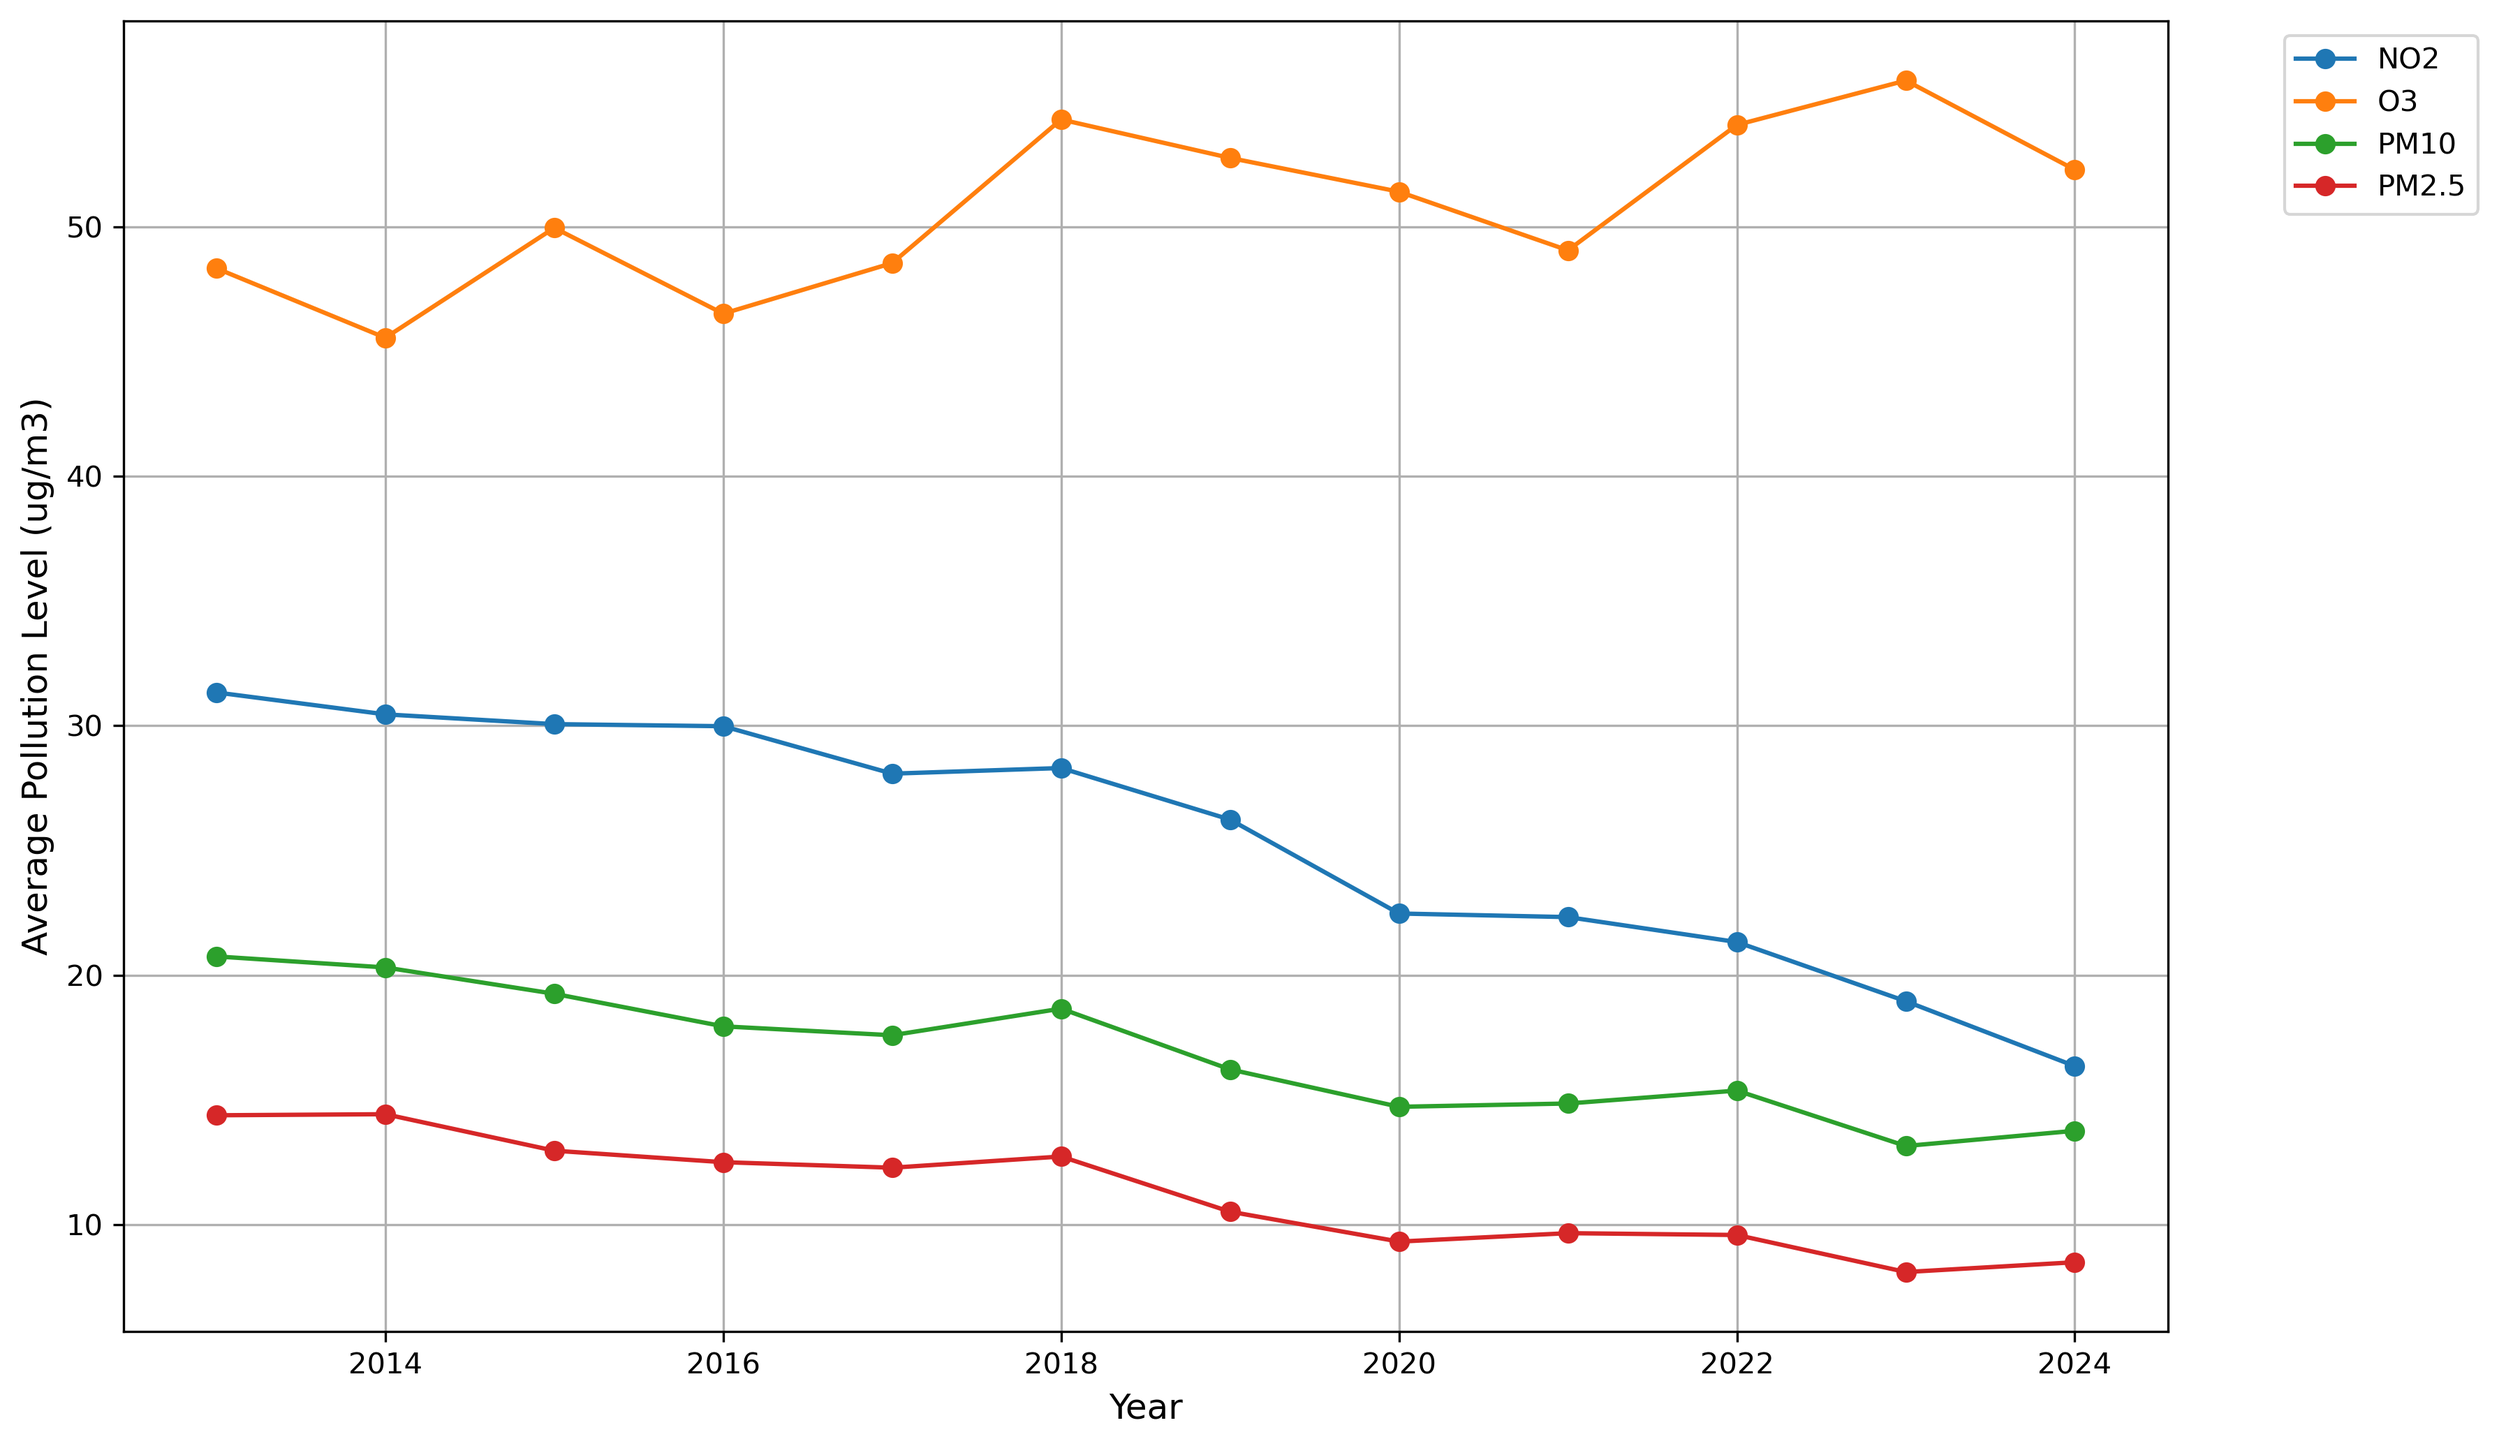
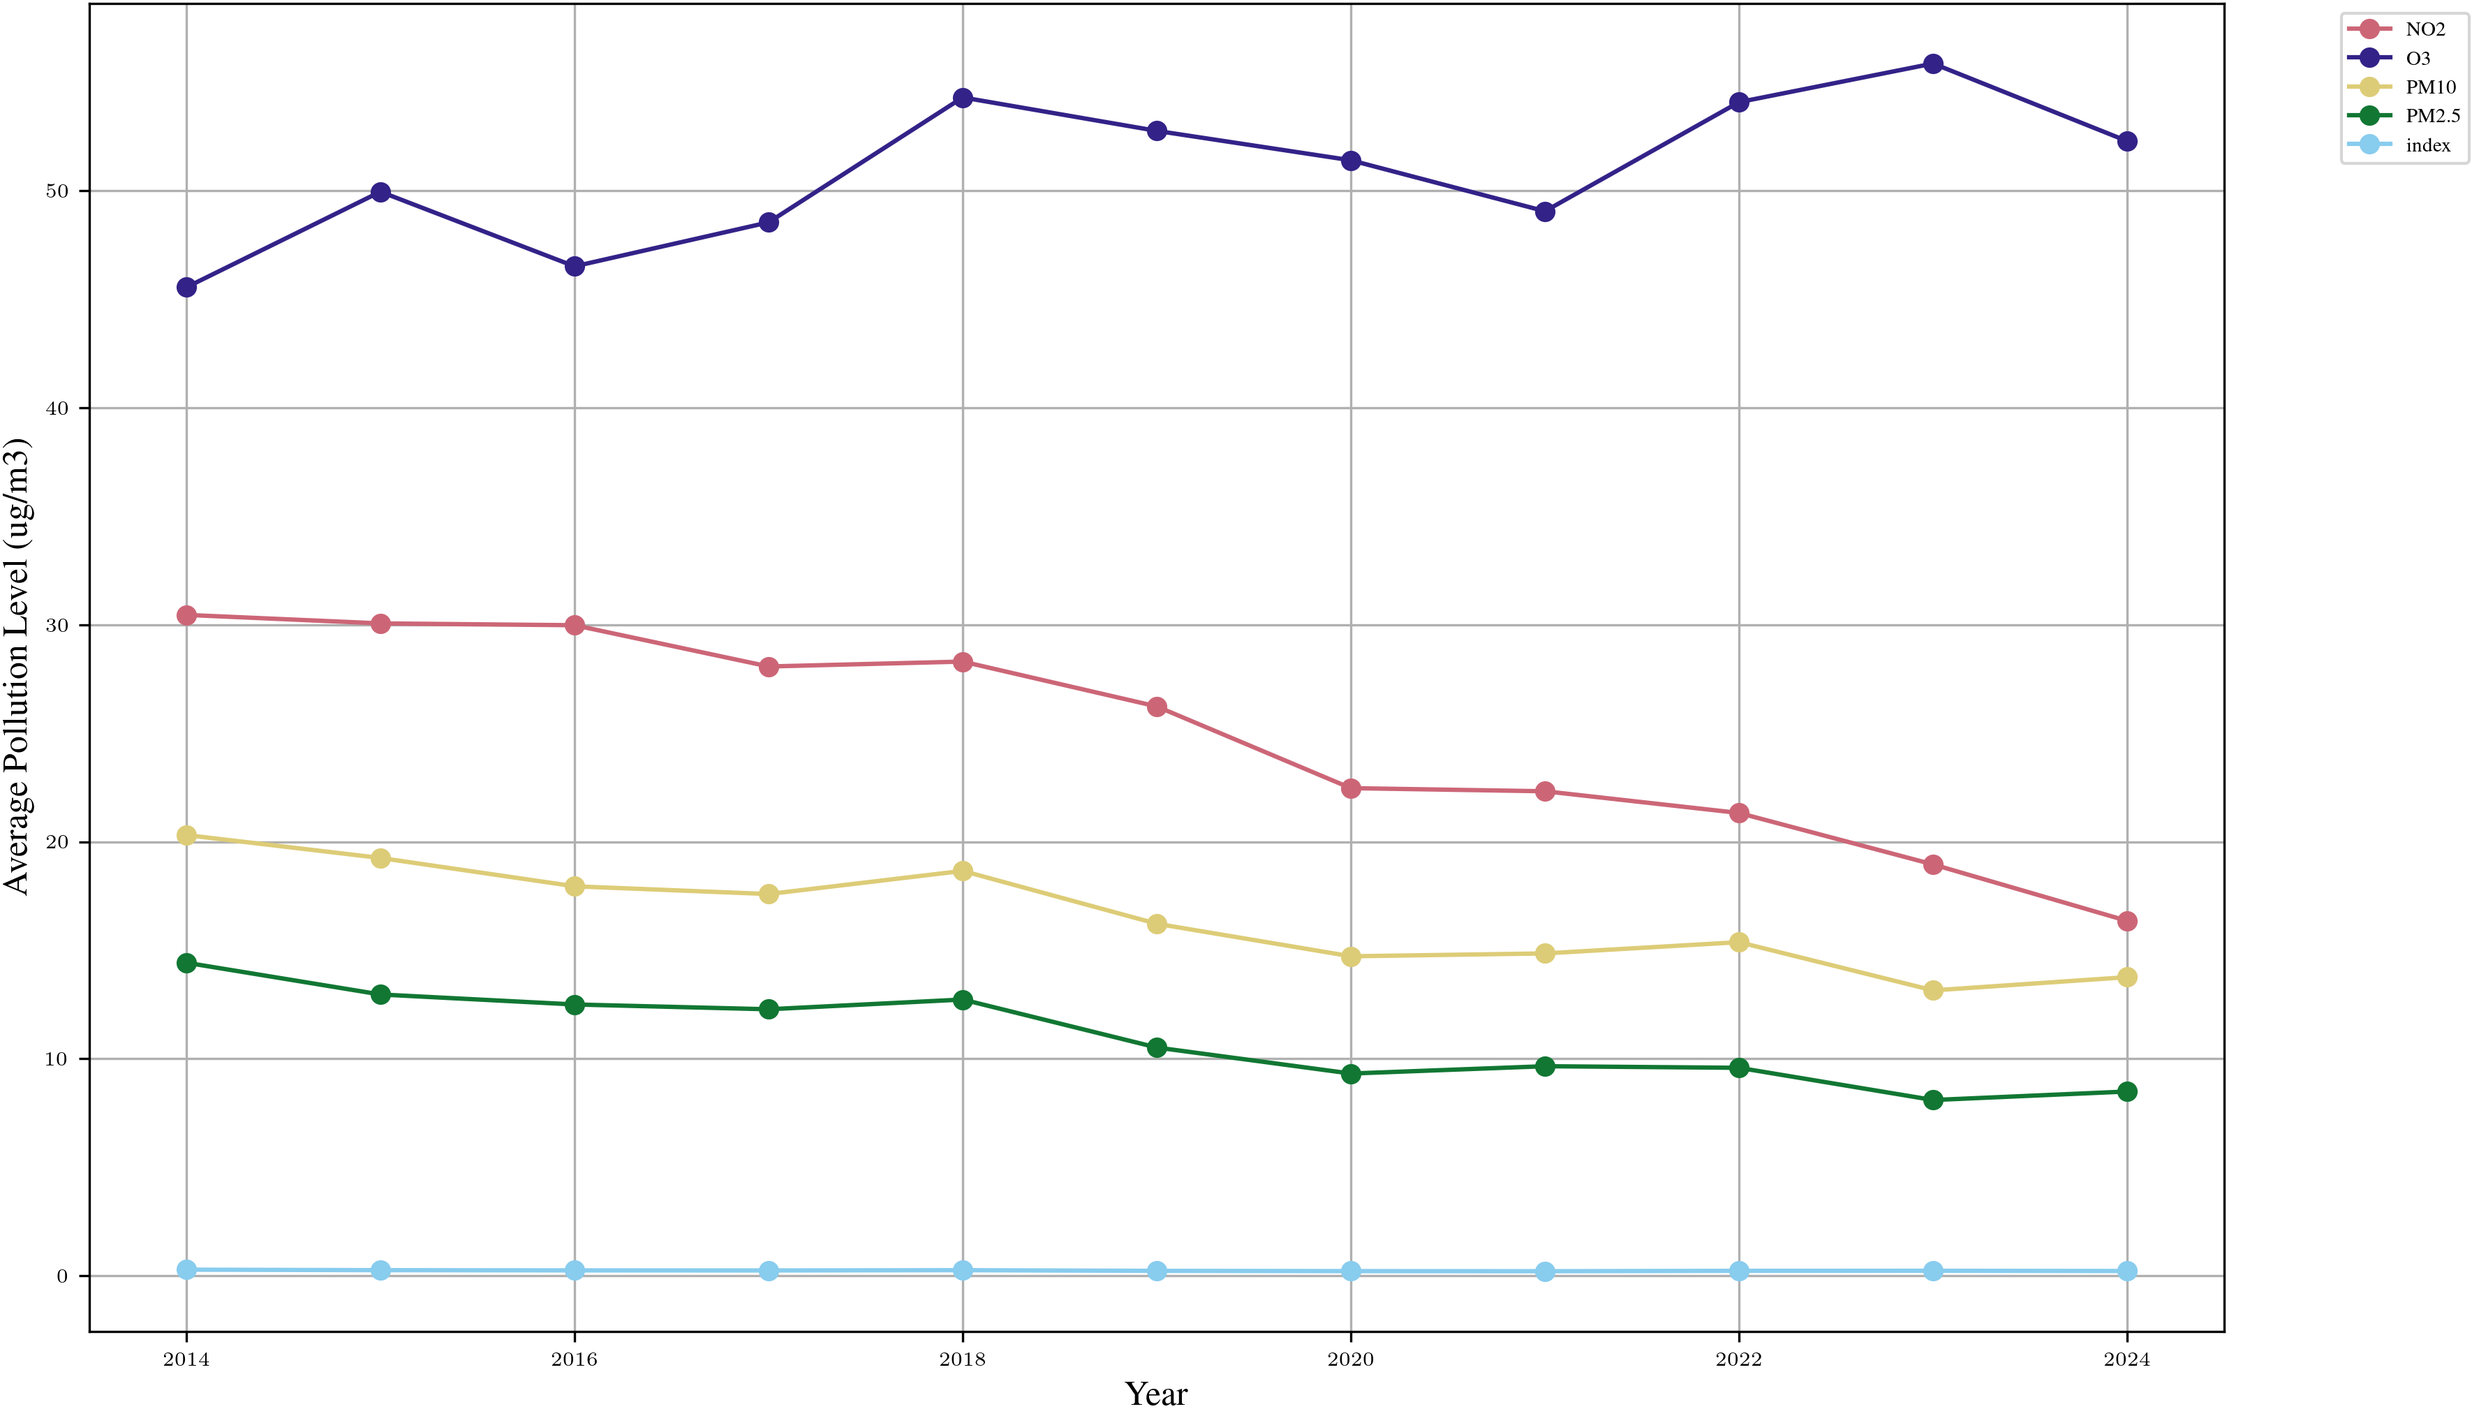
new air pollution trend graph

diff --git a/final/analysis/air_pollution_trends/air_pollution_trends.py b/final/analysis/air_pollution_trends/air_pollution_trends.py
@@ -2,6 +2,13 @@ import pandas as pd
 import matplotlib.pyplot as plt
 import os
 
+from tueplots import axes, bundles, markers
+from tueplots import cycler
+from tueplots.constants.color import palettes
+
+plt.rcParams.update(bundles.neurips2021(usetex=True, family="serif"))
+plt.rcParams.update(cycler.cycler(color=palettes.paultol_muted))
+
 folder_path = '../../data_processed/air_pollution/'
 
 # Load and combine data
@@ -11,19 +18,51 @@ all_data = pd.concat(
     ignore_index=True
 )
 
+continuous_index = pd.read_csv('../../continuous_index/continuous_index.csv')
+continuous_index['Air Pollutant'] = 'index'
+continuous_index['Air Pollution Level'] = continuous_index['Index']
+
+all_data = pd.concat([all_data, continuous_index])
+
 # Calculate yearly averages
 average_pollution = all_data.groupby(['Air Pollutant', 'Year'])['Air Pollution Level'].mean().reset_index()
-average_pollution = average_pollution[(average_pollution['Year'] > 2012) & (average_pollution['Year'] < 2025)]
-# Create plot
+average_pollution = average_pollution[(average_pollution['Year'] > 2013) & (average_pollution['Year'] < 2025)]
+
+# Calculate percentage change relative to first year
+average_pollution['First Year Level'] = average_pollution.groupby('Air Pollutant')['Air Pollution Level'].transform('first')
+average_pollution['Percentage Change'] = (
+    (average_pollution['Air Pollution Level'] - average_pollution['First Year Level']) / 
+    average_pollution['First Year Level']
+) * 100
+
+# Explicitly set first year to 0% for each pollutant
+average_pollution.loc[
+    average_pollution.groupby('Air Pollutant')['Year'].transform('min') == average_pollution['Year'],
+    'Percentage Change'
+] = 0
+
+# Filter out any remaining NaN values
+average_pollution = average_pollution.dropna(subset=['Percentage Change'])
+
 plt.figure(figsize=(12, 7))
+ax = plt.gca()  # Get current axes
+
+# Remove top and right spines
+ax.spines['top'].set_visible(False)
+ax.spines['right'].set_visible(False)
+
 for pollutant, group in average_pollution.groupby('Air Pollutant'):
-    plt.plot(group['Year'], group['Air Pollution Level'], 
+    plt.plot(group['Year'], group['Percentage Change'], 
              marker='o', linestyle='-', label=pollutant)
 
+# Set x-ticks to show all years
+plt.xticks(average_pollution['Year'].unique())
+
+# Position legend in upper right corner inside plot
+plt.legend(loc='upper right', frameon=True)
+
 plt.xlabel('Year', fontsize=12)
-plt.ylabel('Average Pollution Level (ug/m3)', fontsize=12)
-# plt.title('Average Air Pollution Levels by Pollutant', fontsize=14)
-plt.legend(bbox_to_anchor=(1.05, 1), loc='upper left')
+plt.ylabel('Change from First Year (\%)', fontsize=12)
 plt.grid(True)
 plt.tight_layout()
-plt.savefig('average_air_pollution_levels.png', dpi=300, bbox_inches='tight')
+plt.savefig('pollution_change_plot.png', dpi=300)
